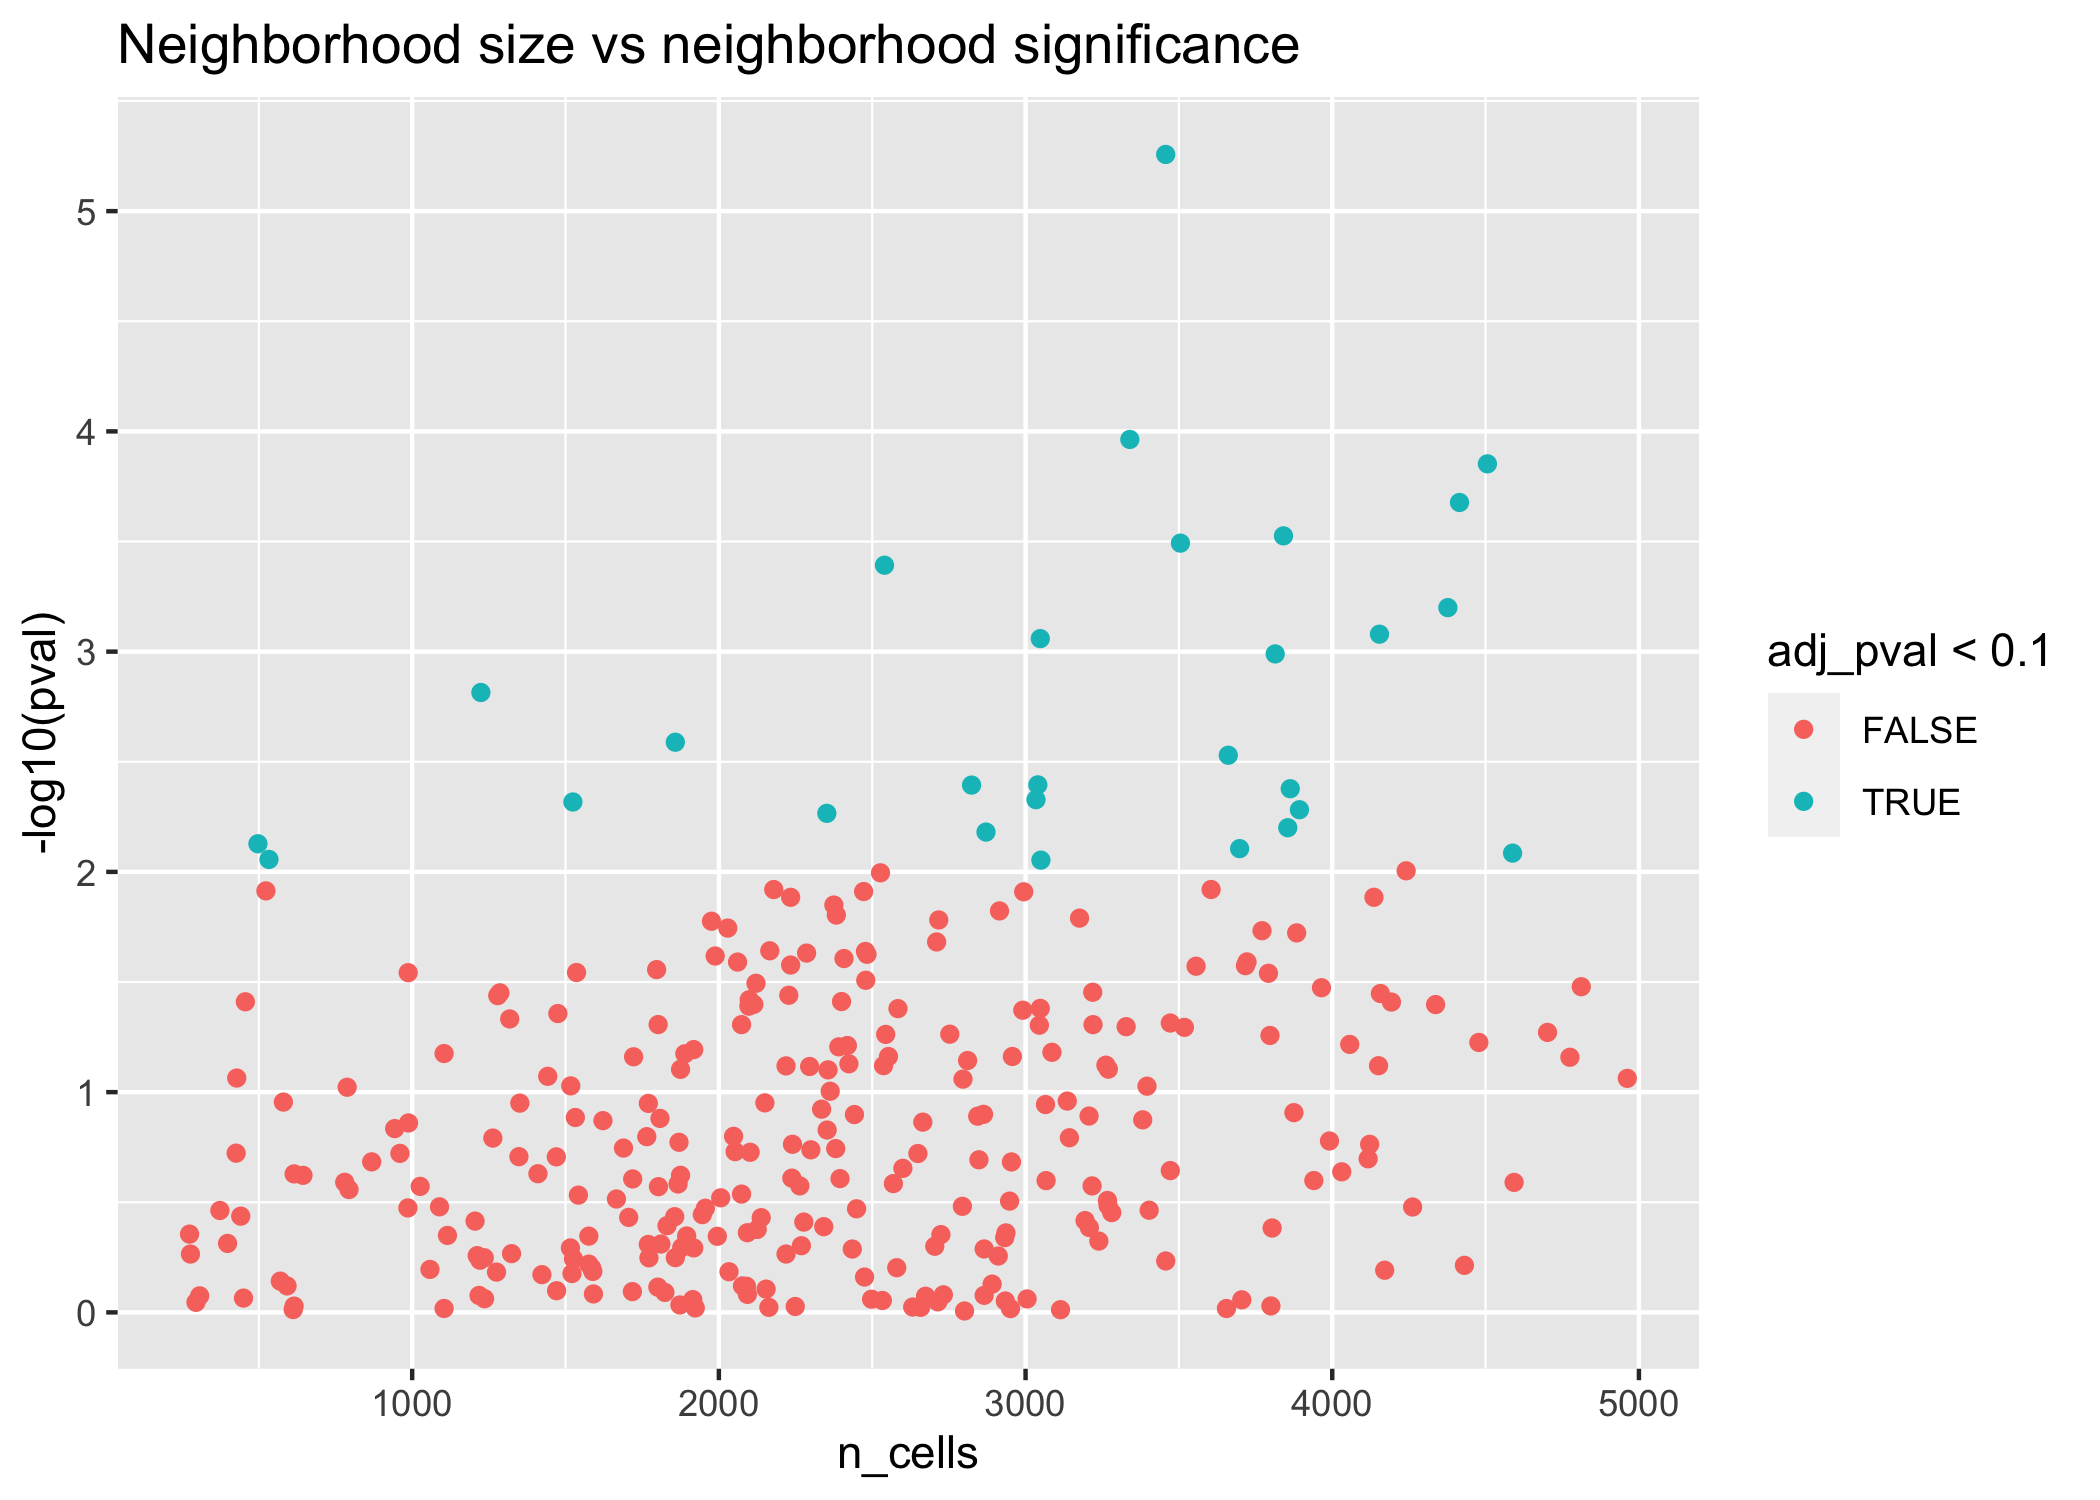
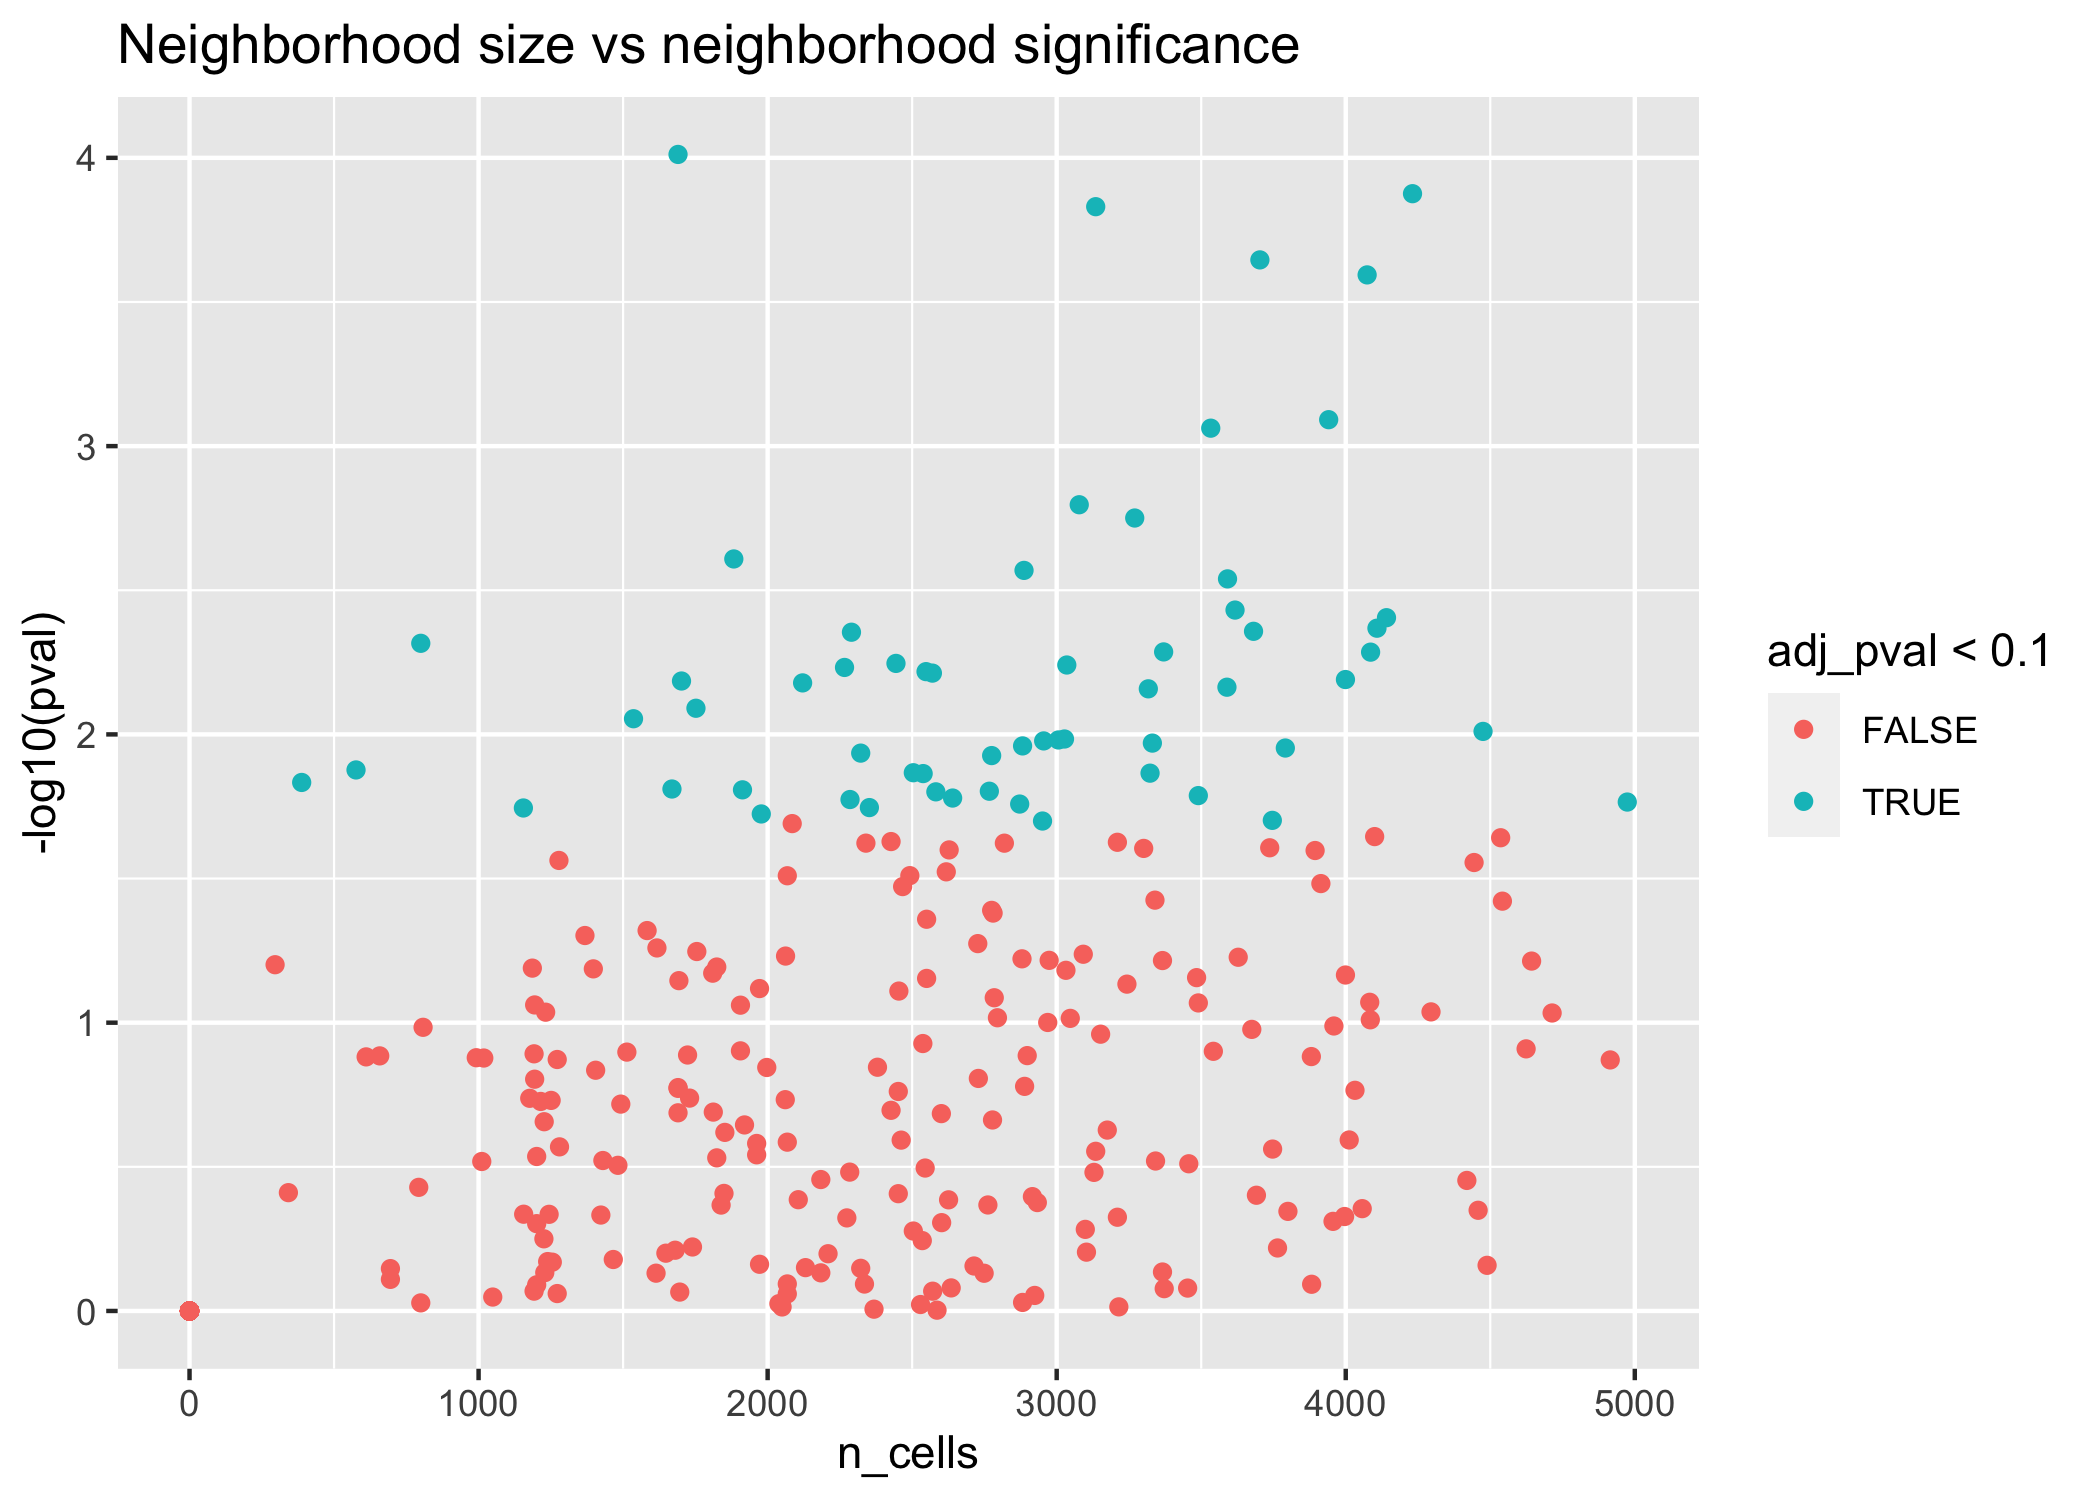
Update README

diff --git a/README.md b/README.md
@@ -99,17 +99,11 @@ Initially, the data separates by the known covariates `patient_id` and
 ``` r
 orig_umap <- uwot::umap(as.matrix(t(logcounts(glioblastoma_example_data))))
 
-as_tibble(orig_umap) %>%
-  bind_cols(as_tibble(colData(glioblastoma_example_data))) %>%
-  ggplot(aes(x = V1, y = V2)) +
+as_tibble(colData(glioblastoma_example_data)) %>%
+  mutate(umap = orig_umap) %>%
+  ggplot(aes(x = umap[,1], y = umap[,2])) +
     geom_point(aes(color = patient_id, shape = condition), size = 0.5) +
     labs(title = "UMAP of logcounts")
-#> Warning: The `x` argument of `as_tibble.matrix()` must have unique column names if
-#> `.name_repair` is omitted as of tibble 2.0.0.
-#> ℹ Using compatibility `.name_repair`.
-#> This warning is displayed once every 8 hours.
-#> Call `lifecycle::last_lifecycle_warnings()` to see where this warning was
-#> generated.
 ```
 
 <img src="man/figures/README-raw_umap-1.png" width="100%" />
@@ -131,7 +125,14 @@ differentially expressed genes.
 
 ``` r
 fit <- lemur(glioblastoma_example_data, design = ~ patient_id + condition, 
-             n_embedding = 15, test_fraction = 0.2, verbose = FALSE)
+             n_embedding = 15, test_fraction = 0.5)
+#> Storing 50% of the data (2500 cells) as test data.
+#> Regress out global effects using linear method.
+#> Find base point for differential embedding
+#> Fit differential embedding model
+#> Initial error: 1.78e+06
+#> ---Fit Grassmann linear model
+#> Final error: 1.11e+06
 
 # Optionally, align cell positions across conditions
 # Either with manual annotation by calling `align_by_grouping` or
@@ -164,9 +165,9 @@ low-dimensional embedding can be accessed using `fit$embedding`:
 ``` r
 umap <- uwot::umap(t(fit$embedding))
 
-as_tibble(umap) %>%
-  bind_cols(as_tibble(fit$colData)) %>%
-  ggplot(aes(x = V1, y = V2)) +
+as_tibble(fit$colData) %>%
+  mutate(umap = umap) %>%
+  ggplot(aes(x = umap[,1], y = umap[,2])) +
     geom_point(aes(color = patient_id, shape = condition), size = 0.5) +
     labs(title = "UMAP of latent space from LEMUR")
 ```
@@ -193,9 +194,9 @@ UMAP plot:
 # EEF1A1
 sel_gene <- "ENSG00000156508"
 
-as_tibble(umap) %>%
+tibble(umap = umap) %>%
   mutate(expr = assay(fit, "DE")[sel_gene,]) %>%
-  ggplot(aes(x = V1, y = V2)) +
+  ggplot(aes(x = umap[,1], y = umap[,2])) +
     geom_point(aes(color = expr)) +
     scale_color_gradient2() +
     labs(title = "Differential expression on UMAP plot")
@@ -217,25 +218,31 @@ experimental design plus the sample id (in this case `patient_id`).
 
 ``` r
 neighborhoods <- find_de_neighborhoods(fit, group_by = vars(patient_id, condition),
-                                      include_complement = FALSE, verbose = FALSE)
+                                      include_complement = FALSE)
+#> Find optimal neighborhood using zscore.
+#> Validate neighborhoods using test data
+#> Skipping 46 neighborhoods which contain unbalanced cell states
+#> Form pseudobulk (summing counts)
+#> Calculate size factors for each gene
+#> Fit glmGamPoi model on pseudobulk data
 
 as_tibble(neighborhoods) %>%
   arrange(pval) %>%
   left_join(as_tibble(rowData(fit)), by = c("name" = "gene_id")) %>%
   dplyr::select(name, symbol, n_cells, pval, adj_pval)
 #> # A tibble: 300 × 5
-#>    name            symbol n_cells       pval adj_pval
-#>    <chr>           <chr>    <int>      <dbl>    <dbl>
-#>  1 ENSG00000187193 MT1X      3457 0.00000553  0.00166
-#>  2 ENSG00000125148 MT2A      3340 0.000109    0.0140 
-#>  3 ENSG00000245532 NEAT1     4506 0.000140    0.0140 
-#>  4 ENSG00000113889 KNG1      4415 0.000210    0.0158 
-#>  5 ENSG00000177700 POLR2L    3841 0.000298    0.0161 
-#>  6 ENSG00000147588 PMP2      3505 0.000322    0.0161 
-#>  7 ENSG00000120885 CLU       2540 0.000405    0.0174 
-#>  8 ENSG00000198668 CALM1     4377 0.000631    0.0237 
-#>  9 ENSG00000069275 NUCKS1    4154 0.000833    0.0262 
-#> 10 ENSG00000198258 UBL5      3048 0.000873    0.0262 
+#>    name            symbol n_cells      pval adj_pval
+#>    <chr>           <chr>    <int>     <dbl>    <dbl>
+#>  1 ENSG00000125148 MT2A      1690 0.0000973   0.0148
+#>  2 ENSG00000245532 NEAT1     4231 0.000133    0.0148
+#>  3 ENSG00000198668 CALM1     3135 0.000148    0.0148
+#>  4 ENSG00000177700 POLR2L    3703 0.000226    0.0153
+#>  5 ENSG00000147588 PMP2      4074 0.000255    0.0153
+#>  6 ENSG00000069275 NUCKS1    3941 0.000810    0.0371
+#>  7 ENSG00000154518 ATP5G3    3533 0.000866    0.0371
+#>  8 ENSG00000113558 SKP1      3078 0.00160     0.0592
+#>  9 ENSG00000156508 EEF1A1    3270 0.00178     0.0592
+#> 10 ENSG00000132002 DNAJB1    1883 0.00246     0.0695
 #> # ℹ 290 more rows
 ```
 
@@ -246,9 +253,9 @@ expression:
 # HLA-DRB1
 sel_gene <- "ENSG00000196126"
 
-as_tibble(umap) %>%
+tibble(umap = umap) %>%
   mutate(expr = assay(fit, "DE")[sel_gene,]) %>%
-  ggplot(aes(x = V1, y = V2)) +
+  ggplot(aes(x = umap[,1], y = umap[,2])) +
     geom_point(aes(color = expr)) +
     scale_color_gradient2() +
     labs(title = "Differential expression on UMAP plot")
@@ -260,19 +267,19 @@ To plot the boundaries of the differential expression neighborhood, we
 create a helper dataframe and use the `geom_density2d` function from
 `ggplot2`. To avoid the cutting of the boundary to the extremes of the
 cell coordinates, add `lims` to the plot with an appropriately large
-limits.
+limit.
 
 ``` r
 neighborhood_coordinates <- neighborhoods %>%
   dplyr::filter(selection & name == sel_gene) %>%
   mutate(cell_id = map(indices, \(idx) colnames(fit)[idx])) %>%
   unnest(c(indices, cell_id)) %>%
-  left_join(as_tibble(umap, rownames = "cell_id"), by = "cell_id") %>%
-  dplyr::select(name, cell_id, V1, V2)
+  left_join(tibble(cell_id = rownames(umap), umap), by = "cell_id") %>%
+  dplyr::select(name, cell_id, umap)
 
-as_tibble(umap) %>%
+tibble(umap = umap) %>%
   mutate(expr = assay(fit, "DE")[sel_gene,]) %>%
-  ggplot(aes(x = V1, y = V2)) +
+  ggplot(aes(x = umap[,1], y = umap[,2])) +
     geom_point(aes(color = expr)) +
     scale_color_gradient2() +
     geom_density2d(data = neighborhood_coordinates, breaks = 0.1, 
@@ -306,15 +313,12 @@ neighborhoods %>%
 
 # FAQ
 
-> I have already integrated my data using Harmony / MNN / Seurat. Can I
-> call `lemur` directly with the aligned data?
+##### I have already integrated my data using Harmony / MNN / Seurat. Can I call `lemur` directly with the aligned data?
 
 No. You need to call `lemur` with the unaligned data so that it can
 learn how much the expression of each gene changes between conditions.
 
-> Can I call lemur with
-> [sctransformed](https://github.com/satijalab/sctransform) instead of
-> log-transformed data?
+##### Can I call lemur with [sctransformed](https://github.com/satijalab/sctransform) instead of log-transformed data?
 
 Yes. You can call lemur with any variance stabilized count matrix. Based
 on a [previous
@@ -322,8 +326,7 @@ project](https://www.biorxiv.org/content/10.1101/2021.06.24.449781v4), I
 recommend to use log-transformation, but other methods will work just
 fine.
 
-> My data appears less integrated after calling `lemur()` than before.
-> What is happening?!
+##### My data appears less integrated after calling `lemur()` than before. What is happening?!
 
 This is a known issue and can be caused if the data has large
 compositional shifts (for example, if one cell type disappears). The
@@ -337,14 +340,32 @@ manually fix the regression coefficient to zero:
 fit <- lemur(sce, design = ~ patient_id + condition, n_embedding = 15, linear_coefficient_estimator = "zero")
 ```
 
-> The conditions still separate if I plot the data using UMAP / tSNE.
-> Even after calling `align_harmony` / `align_neighbors`. What should I
-> do?
+##### The conditions still separate if I plot the data using UMAP / tSNE. Even after calling `align_harmony` / `align_neighbors`. What should I do?
 
 You can try to increase `n_embedding`. If this still does not help,
 there is little use in inferring differential expression neighborhoods.
 But as I haven’t encountered such a dataset yet, I would like to try it
 out myself. If you can share the data publicly, please open an issue.
+
+##### How do I make `lemur` faster?
+
+Several parameters influence the duration to fit the LEMUR model and
+find differentially expressed neighborhoods:
+
+- Make sure that your data is stored in memory (not a `DelayedArray`)
+  either as a sparse dgCMatrix or dense matrix.
+- A larger `test_fraction` means fewer cells are used to fit the model
+  (and more cells are used for the DE test), which speeds up many steps.
+- A smaller `n_embedding` reduces the latent dimensions of the fit,
+  which makes the model less flexible, but speeds up the `lemur()` call.
+- Providing a pre-calculated set of matching cells and calling
+  `align_grouping` is faster than `align_harmony`.
+- Setting `selection_procedure = "contrast"` in `find_de_neighborhoods`
+  often produces better neighborhoods, but is a lot slower than
+  `selection_procedure = "zscore"`.
+- Setting `size_factor_method = "ratio"` in `find_de_neighborhoods`
+  makes the DE more powerful, but is a lot slower than
+  `size_factor_method = "normed_sum"`.
 
 # Session Info
 
@@ -388,10 +409,10 @@ sessionInfo()
 #>  [7] bitops_1.0-7              generics_0.1.3           
 #>  [9] fansi_1.0.4               highr_0.10               
 #> [11] pkgconfig_2.0.3           Matrix_1.5-4.1           
-#> [13] sparseMatrixStats_1.12.0  lifecycle_1.0.3          
+#> [13] sparseMatrixStats_1.13.4  lifecycle_1.0.3          
 #> [15] GenomeInfoDbData_1.2.10   farver_2.1.1             
 #> [17] compiler_4.3.0            munsell_0.5.0            
-#> [19] codetools_0.2-19          glmGamPoi_1.13.0         
+#> [19] codetools_0.2-19          glmGamPoi_1.13.2         
 #> [21] htmltools_0.5.5           RCurl_1.98-1.12          
 #> [23] yaml_2.3.7                pillar_1.9.0             
 #> [25] crayon_1.5.2              MASS_7.3-60              
